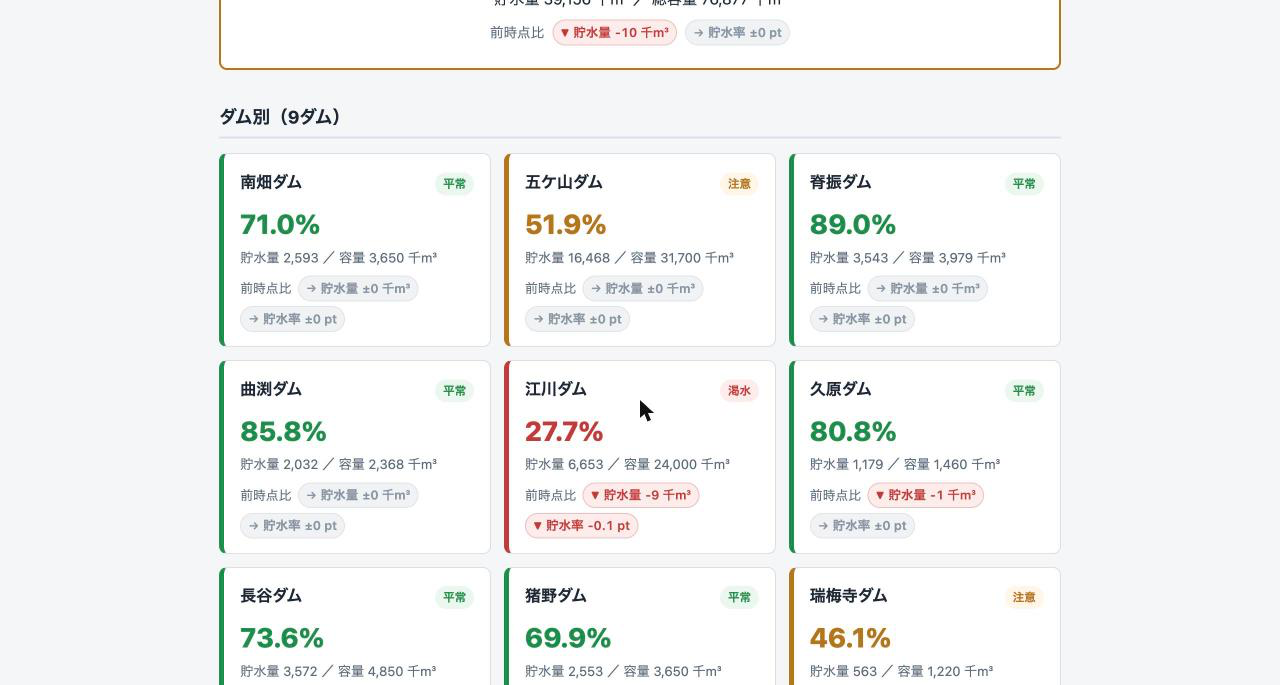
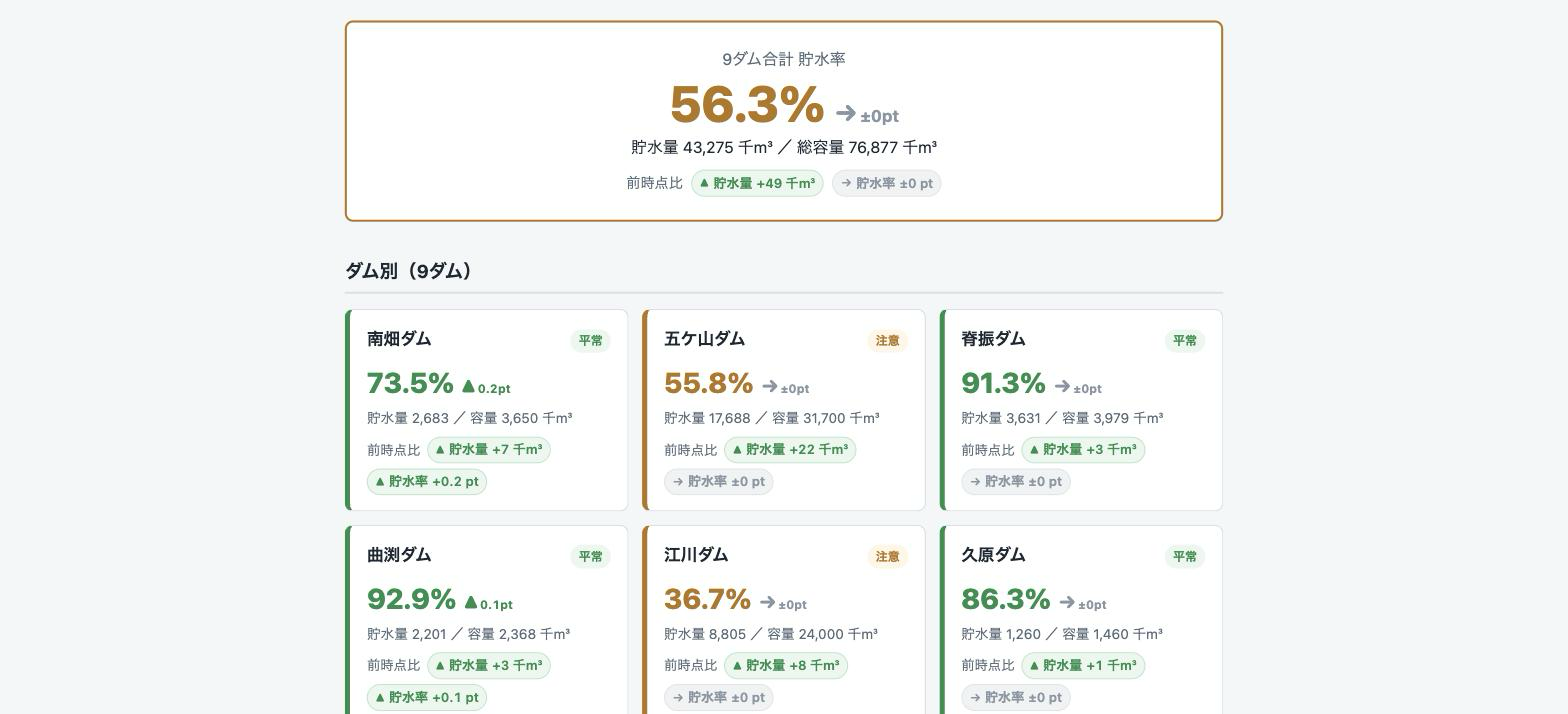
feat(front): ダム別カードと合計サマリの貯水率に方向グリフを追加（wl-dam-15 追補）
大きな貯水率の数字のすぐ隣に前時点比の方向グリフ（▲上昇=緑 / ▼下降=赤 /
→横ばい=グレー ＋ 差分の絶対値）を表示し、増減を合計サマリと同等の視認性にした。

- makeDeltaGlyph() を新設。しきい値・色・文言は既存の deltaDirection /
  DIR_ICON / DIR_WORD / spokenDelta を流用（重複実装なし）
- spokenDelta() ヘルパーに aria-label の読み上げ文言を集約（makeIndicator と共用）
- renderDamList: .dam-rate を .dam-rate-row でラップし数字＋グリフを1行に
- renderSummary: #summary-rate を数字 span ＋グリフの flex 行に
- 既存の .dam-delta / .summary-delta の詳細チップ行（符号付き差分値）は据え置き
- 左端の色帯（貯水率ステータス）は変更なし。グリフの色とは独立
- モバイル幅（〜360px）で数字＋グリフが1行に収まり折り返しても潰れないことを確認
- README の現在値ビュー説明とスクリーンショット（PC / モバイル）を差し替え

diff --git a/assets/app.js b/assets/app.js
@@ -105,6 +105,54 @@ var DIR_WORD = {
   rate: { up: "上昇", down: "下降", flat: "横ばい" }
 };
 
+// aria-label 用の読み上げ文言（"0.3ポイント" / "1,234千立方メートル"）
+function spokenDelta(n, kind) {
+  return kind === "rate"
+    ? (Math.round(Math.abs(n) * 10) / 10).toFixed(1) + "ポイント"
+    : fmtInt(Math.abs(n)) + "千立方メートル";
+}
+
+/*
+ * 目立つ方向グリフを1つ生成して返す（大きな数字の隣に置く用）。
+ *   - 形状アイコン（▲上昇 / ▼下降 / →横ばい）＋色（緑 / 赤 / グレー）＋差分の絶対値を表示
+ *   - しきい値・色・文言は deltaDirection / DIR_ICON / DIR_WORD / spokenDelta を流用（重複実装しない）
+ *   - 前時点比データが無ければ null を返す（詳細チップ行が "—" を出すのでグリフは省略）
+ */
+function makeDeltaGlyph(n, kind, metricLabel) {
+  var dir = deltaDirection(n, kind);
+  if (!dir) return null;
+
+  var glyph = document.createElement("span");
+  glyph.className = "delta-glyph is-" + dir;
+  glyph.setAttribute("role", "img");
+
+  var arrow = document.createElement("span");
+  arrow.className = "delta-glyph-arrow";
+  arrow.setAttribute("aria-hidden", "true");
+  arrow.textContent = DIR_ICON[dir];
+
+  var value = document.createElement("span");
+  value.className = "delta-glyph-value";
+  value.setAttribute("aria-hidden", "true");
+  var unit = kind === "rate" ? "pt" : "千m³";
+  value.textContent = dir === "flat"
+    ? "±0" + unit
+    : (kind === "rate"
+        ? (Math.round(Math.abs(n) * 10) / 10).toFixed(1) + unit
+        : fmtInt(Math.abs(n)) + unit);
+
+  glyph.appendChild(arrow);
+  glyph.appendChild(value);
+
+  glyph.setAttribute(
+    "aria-label",
+    dir === "flat"
+      ? metricLabel + " 横ばい 増減なし"
+      : metricLabel + " " + DIR_WORD[kind][dir] + " " + spokenDelta(n, kind)
+  );
+  return glyph;
+}
+
 /*
  * 増減インジケータ（チップ）を1つ生成して返す。
  *   - 形状アイコン（▲上昇 / ▼下降 / →横ばい）＋色（緑 / 赤 / グレー）＋差分値を表示
@@ -150,10 +198,7 @@ function makeIndicator(n, kind, metricLabel) {
   if (dir === "flat") {
     chip.setAttribute("aria-label", metricLabel + " 横ばい 増減なし");
   } else {
-    var spoken = kind === "rate"
-      ? (Math.round(Math.abs(n) * 10) / 10).toFixed(1) + "ポイント"
-      : fmtInt(Math.abs(n)) + "千立方メートル";
-    chip.setAttribute("aria-label", metricLabel + " " + DIR_WORD[kind][dir] + " " + spoken);
+    chip.setAttribute("aria-label", metricLabel + " " + DIR_WORD[kind][dir] + " " + spokenDelta(n, kind));
   }
   return chip;
 }
@@ -191,7 +236,17 @@ function buildDeltas(history) {
 function renderSummary(total, delta) {
   if (!total) return;
   var card = document.getElementById("summary-card");
-  document.getElementById("summary-rate").textContent = fmtRate(total.rate);
+
+  // 大きな貯水率の数字 ＋ その隣に前時点比の方向グリフ（合計サマリ）
+  var rateEl = document.getElementById("summary-rate");
+  rateEl.textContent = "";
+  var rateNum = document.createElement("span");
+  rateNum.className = "summary-rate-num";
+  rateNum.textContent = fmtRate(total.rate);
+  rateEl.appendChild(rateNum);
+  var summaryGlyph = delta ? makeDeltaGlyph(delta.rate, "rate", "貯水率") : null;
+  if (summaryGlyph) rateEl.appendChild(summaryGlyph);
+
   document.getElementById("summary-detail").textContent =
     "貯水量 " + fmtInt(total.storage) + " 千m³ ／ 総容量 " + fmtInt(total.capacity) + " 千m³";
 
@@ -234,9 +289,16 @@ function renderDamList(dams, deltas) {
     badge.className = "dam-badge";
     badge.textContent = d ? rateLabel(d.rate) : "—";
 
+    // 大きな貯水率の数字 ＋ その隣に前時点比の方向グリフ（ダム別カード）
+    var rateRow = document.createElement("div");
+    rateRow.className = "dam-rate-row";
     var rate = document.createElement("span");
     rate.className = "dam-rate";
     rate.textContent = d ? fmtRate(d.rate) : "—";
+    rateRow.appendChild(rate);
+    var dd = deltas[def.key];
+    var rateGlyph = d && dd ? makeDeltaGlyph(dd.rate, "rate", "貯水率") : null;
+    if (rateGlyph) rateRow.appendChild(rateGlyph);
 
     var storage = document.createElement("span");
     storage.className = "dam-storage";
@@ -246,7 +308,6 @@ function renderDamList(dams, deltas) {
 
     var delta = document.createElement("span");
     delta.className = "dam-delta";
-    var dd = deltas[def.key];
     if (dd && (dd.storage != null || dd.rate != null)) {
       var lead = document.createElement("span");
       lead.className = "delta-label";
@@ -264,7 +325,7 @@ function renderDamList(dams, deltas) {
     head.appendChild(badge);
 
     li.appendChild(head);
-    li.appendChild(rate);
+    li.appendChild(rateRow);
     li.appendChild(storage);
     li.appendChild(delta);
     frag.appendChild(li);

diff --git a/assets/style.css b/assets/style.css
@@ -152,11 +152,20 @@ body {
   font-size: 3rem;
   font-weight: 800;
   line-height: 1.1;
+  display: flex;
+  align-items: baseline;
+  justify-content: center;
+  flex-wrap: wrap;
+  gap: 0.1rem 0.5rem;
 }
 
-.summary-card.is-normal .summary-rate { color: var(--normal); }
-.summary-card.is-caution .summary-rate { color: var(--caution); }
-.summary-card.is-drought .summary-rate { color: var(--drought); }
+.summary-card.is-normal .summary-rate-num { color: var(--normal); }
+.summary-card.is-caution .summary-rate-num { color: var(--caution); }
+.summary-card.is-drought .summary-rate-num { color: var(--drought); }
+
+/* 合計サマリの方向グリフは数字に負けない大きさで */
+.summary-rate .delta-glyph { font-size: 1.5rem; }
+.summary-rate .delta-glyph .delta-glyph-value { font-size: 1rem; }
 
 .summary-detail {
   margin: 0.2rem 0 0;
@@ -235,9 +244,16 @@ body {
 .is-caution .dam-badge { background: var(--caution-bg); color: var(--caution); }
 .is-drought .dam-badge { background: var(--drought-bg); color: var(--drought); }
 
-.dam-rate {
-  display: block;
+/* 大きな貯水率の数字 ＋ 前時点比の方向グリフを1行に */
+.dam-rate-row {
+  display: flex;
+  align-items: baseline;
+  flex-wrap: wrap;
+  gap: 0.1rem 0.4rem;
   margin-top: 0.3rem;
+}
+
+.dam-rate {
   font-size: 1.7rem;
   font-weight: 800;
 }
@@ -246,6 +262,29 @@ body {
 .is-caution .dam-rate { color: var(--caution); }
 .is-drought .dam-rate { color: var(--drought); }
 .is-unknown .dam-rate { color: var(--unknown); }
+
+/* 方向グリフ: 形状（▲▼→）＋色＋差分の絶対値。色帯（ステータス）とは独立 */
+.delta-glyph {
+  display: inline-flex;
+  align-items: baseline;
+  gap: 0.12rem;
+  font-weight: 800;
+  line-height: 1;
+  white-space: nowrap;
+}
+
+.delta-glyph .delta-glyph-arrow { font-size: 1em; }
+.delta-glyph .delta-glyph-value {
+  font-size: 0.62em;
+  font-weight: 700;
+  font-variant-numeric: tabular-nums;
+}
+
+.dam-rate-row .delta-glyph { font-size: 1.15rem; }
+
+.delta-glyph.is-up { color: var(--normal); }
+.delta-glyph.is-down { color: var(--drought); }
+.delta-glyph.is-flat { color: var(--unknown); }
 
 .dam-storage {
   display: block;
@@ -452,6 +491,8 @@ body {
 
 @media (max-width: 540px) {
   .summary-rate { font-size: 2.4rem; }
+  .summary-rate .delta-glyph { font-size: 1.25rem; }
+  .dam-rate-row .delta-glyph { font-size: 1.05rem; }
   .dam-list { grid-template-columns: 1fr; }
   .site-main { padding: 1.2rem 0.9rem 2rem; }
   .chart-box { height: 280px; }

diff --git a/README.md b/README.md
@@ -61,10 +61,13 @@ JS 構文チェックは `node --check assets/app.js`。
 
 ### 現在値ビュー
 
-9ダム合計サマリ＋ダム別カード（貯水率で色分け）。各カードと合計サマリに、1時間前の正時からの
-増減インジケータ（▲上昇＝緑 / ▼下降＝赤 / →横ばい＝グレー）を貯水量・貯水率それぞれで表示する。
+9ダム合計サマリ＋ダム別カード（貯水率で色分け）。各カードと合計サマリでは、大きな貯水率の数字の
+すぐ隣に前時点比の方向グリフ（▲上昇＝緑 / ▼下降＝赤 / →横ばい＝グレー＋差分の絶対値）を大きく
+表示し、増減が一目で分かるようにする。加えて各カード下部のチップ行に、1時間前の正時からの
+増減インジケータ（貯水量・貯水率それぞれの符号付き差分値）を残す。
 横ばい判定のしきい値は |Δ貯水率| < 0.1pt、|Δ貯水量| < 1千m³。色に依存しないよう
 形状アイコンと `aria-label`（例「貯水率 上昇 0.3ポイント」）でも増減を伝える。
+左端の色帯は貯水率ステータス（平常／注意／渇水）で、増減とは独立。
 
 | デスクトップ | 狭幅（スマホ相当） |
 | --- | --- |
